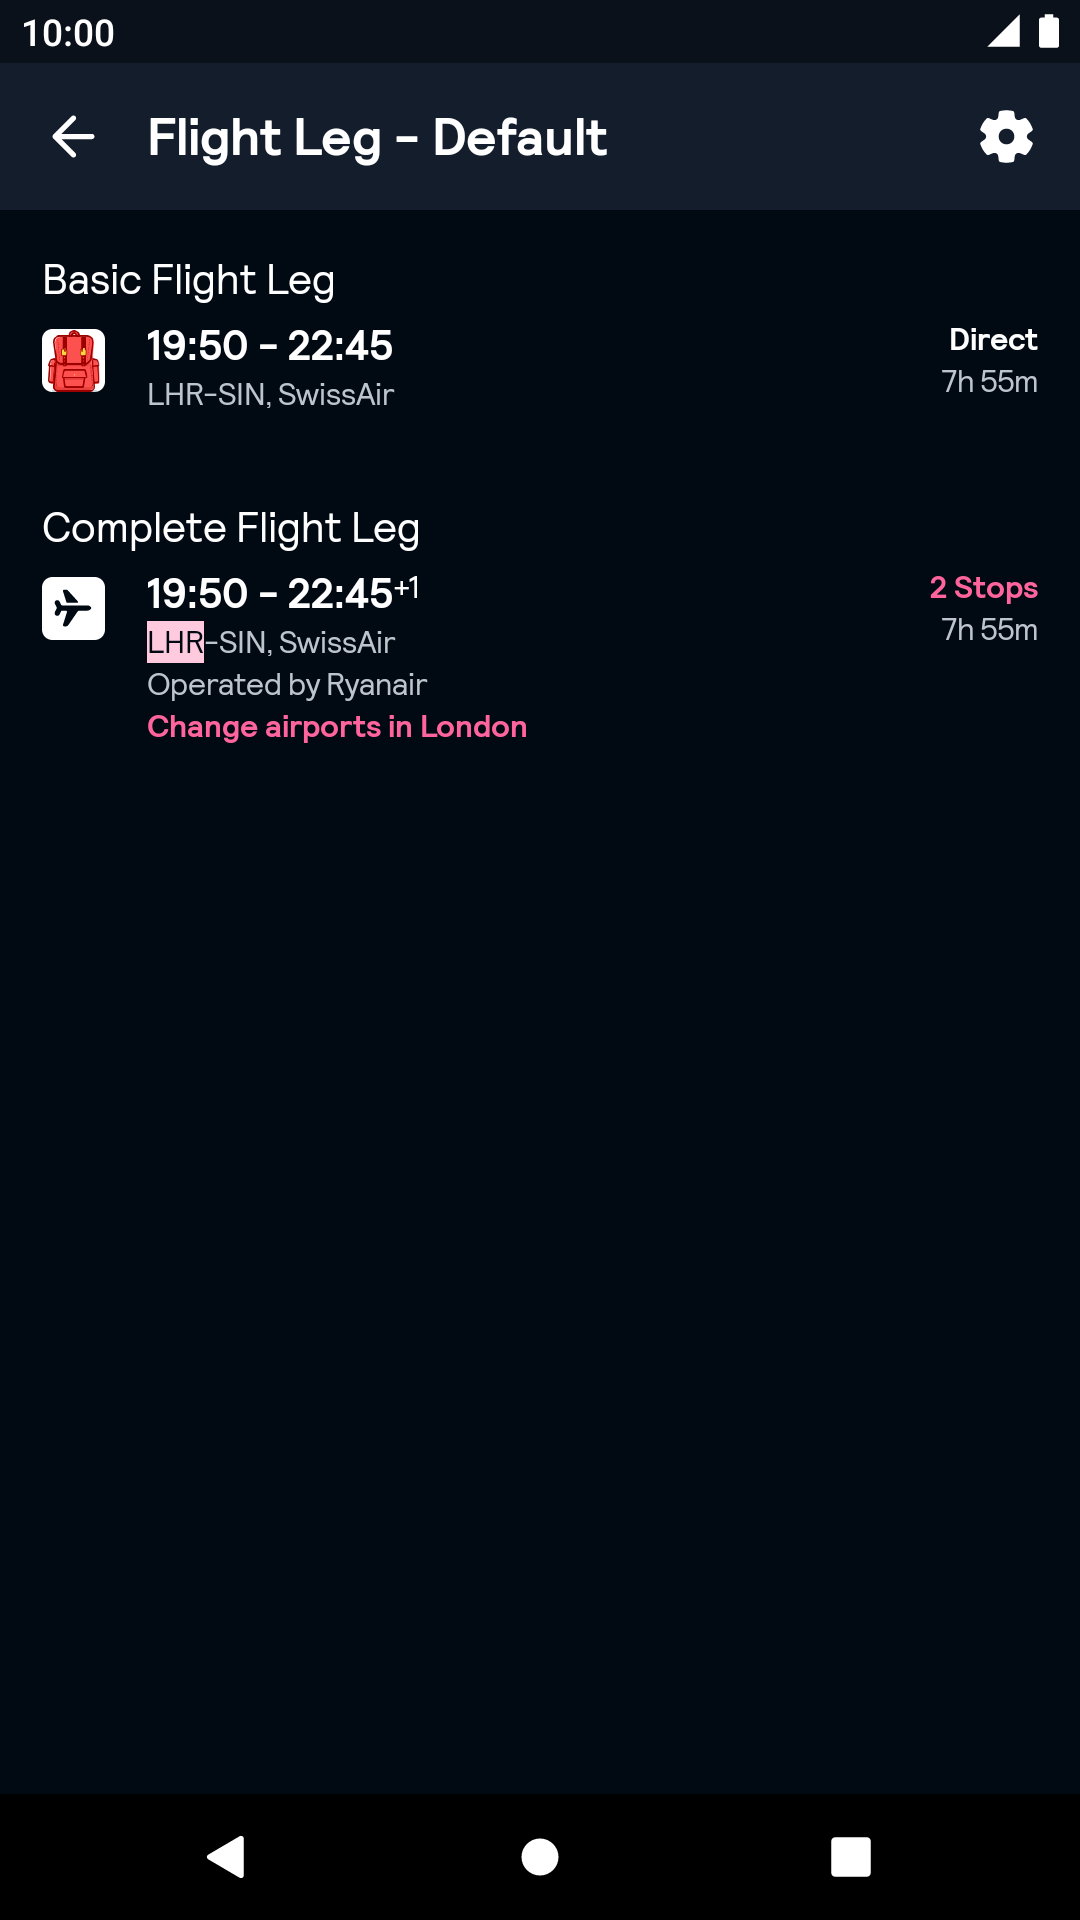
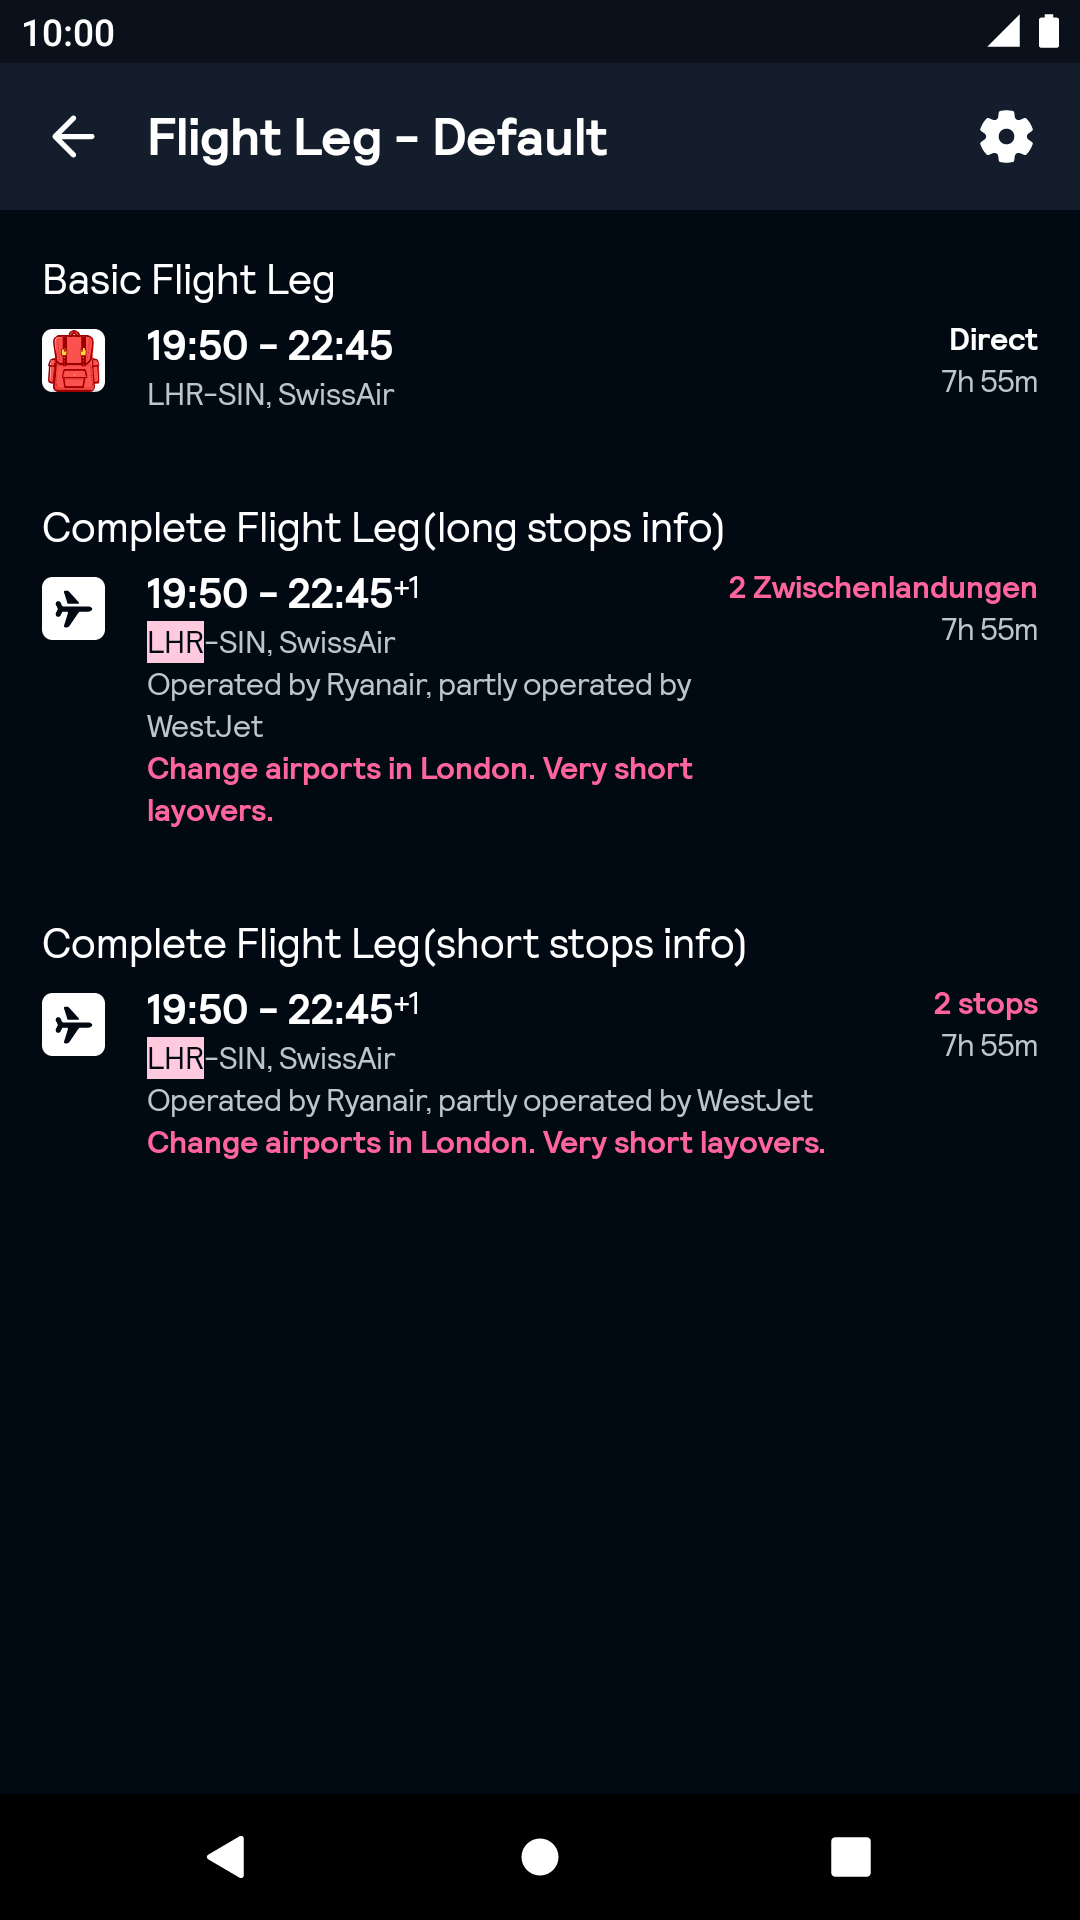
SONIC-1554 fix box alignment + fix long description and long stops info layout issue

diff --git a/app/src/main/java/net/skyscanner/backpack/demo/compose/FlightLegStory.kt b/app/src/main/java/net/skyscanner/backpack/demo/compose/FlightLegStory.kt
@@ -53,11 +53,18 @@ fun FlightLegStory(modifier: Modifier = Modifier) {
             .padding(BpkSpacing.Base),
         verticalArrangement = Arrangement.spacedBy(BpkSpacing.Sm),
     ) {
-        BpkText(text = stringResource(id = R.string.flight_leg_basic_example))
+        BpkText(text = stringResource(id = R.string.flight_leg_basic_example), color = BpkTheme.colors.textPrimary)
         BasicFlightLegSample()
+
         Spacer(modifier = Modifier.height(BpkSpacing.Lg))
-        BpkText(text = stringResource(id = R.string.flight_leg_complete_example))
-        CompleteFlightLegSample()
+
+        BpkText(text = stringResource(id = R.string.flight_leg_complete_long_stops_example), color = BpkTheme.colors.textPrimary)
+        CompleteFlightLegLongStopsSample()
+
+        Spacer(modifier = Modifier.height(BpkSpacing.Lg))
+
+        BpkText(text = stringResource(id = R.string.flight_leg_complete_short_stops_example), color = BpkTheme.colors.textPrimary)
+        CompleteFlightLegShortStopsSample()
     }
 }
 
@@ -80,7 +87,7 @@ internal fun BasicFlightLegSample(modifier: Modifier = Modifier) {
 }
 
 @Composable
-internal fun CompleteFlightLegSample(modifier: Modifier = Modifier) {
+internal fun CompleteFlightLegLongStopsSample(modifier: Modifier = Modifier) {
     BpkFlightLeg(
         modifier = modifier,
         departureArrivalTime = "19:50 - 22:45",
@@ -92,12 +99,42 @@ internal fun CompleteFlightLegSample(modifier: Modifier = Modifier) {
             }
             append("-SIN, SwissAir")
         },
-        stopsInfo = "2 Stops",
+        stopsInfo = "2 Zwischenlandungen",
         highlightStopsInfo = true,
         duration = "7h 55m",
         nextDayArrival = "+1",
-        operatedBy = "Operated by Ryanair",
-        warning = "Change airports in London",
+        operatedBy = "Operated by Ryanair, partly operated by WestJet",
+        warning = "Change airports in London. Very short layovers.",
+        contentDescription = null,
+        carrierLogoContent = {
+            BpkIcon(
+                icon = BpkIcon.Aircraft,
+                tint = BpkTheme.colors.textOnLight,
+                contentDescription = null,
+            )
+        },
+    )
+}
+
+@Composable
+internal fun CompleteFlightLegShortStopsSample(modifier: Modifier = Modifier) {
+    BpkFlightLeg(
+        modifier = modifier,
+        departureArrivalTime = "19:50 - 22:45",
+        description = buildAnnotatedString {
+            withStyle(
+                bpkAirportHighlightStyle(),
+            ) {
+                append("LHR")
+            }
+            append("-SIN, SwissAir")
+        },
+        stopsInfo = "2 stops",
+        highlightStopsInfo = true,
+        duration = "7h 55m",
+        nextDayArrival = "+1",
+        operatedBy = "Operated by Ryanair, partly operated by WestJet",
+        warning = "Change airports in London. Very short layovers.",
         contentDescription = null,
         carrierLogoContent = {
             BpkIcon(

diff --git a/backpack-compose/src/main/kotlin/net/skyscanner/backpack/compose/flightleg/BpkFlightLeg.kt b/backpack-compose/src/main/kotlin/net/skyscanner/backpack/compose/flightleg/BpkFlightLeg.kt
@@ -77,16 +77,19 @@ fun BpkFlightLeg(
     ) {
         Row(modifier = Modifier.fillMaxWidth()) {
             carrierLogoContent?.let {
-                Box(
-                    modifier = Modifier
-                        .size(BpkSpacing.Lg)
-                        .padding(top = BpkSpacing.Sm)
-                        .background(color = BpkTheme.colors.textOnDark, shape = RoundedCornerShape(BpkBorderRadius.Xs)),
-                    content = it,
-                )
+                Box(modifier = Modifier.padding(top = BpkSpacing.Sm)) {
+                    Box(
+                        modifier = Modifier
+                            .size(BpkSpacing.Lg)
+                            .background(color = BpkTheme.colors.textOnDark, shape = RoundedCornerShape(BpkBorderRadius.Xs)),
+                        content = it,
+                        contentAlignment = Alignment.Center,
+                    )
+                }
                 Spacer(modifier = Modifier.width(BpkSpacing.Base))
             }
             Column(
+                modifier = Modifier.weight(0.67f),
                 horizontalAlignment = Alignment.Start,
             ) {
                 Row {
@@ -124,7 +127,6 @@ fun BpkFlightLeg(
                     )
                 }
             }
-            Spacer(modifier = Modifier.weight(1f))
             Column(
                 horizontalAlignment = Alignment.End,
             ) {

diff --git a/app/src/androidTest/java/net/skyscanner/backpack/compose/flightleg/BpkFlightLegTest.kt b/app/src/androidTest/java/net/skyscanner/backpack/compose/flightleg/BpkFlightLegTest.kt
@@ -20,7 +20,8 @@ package net.skyscanner.backpack.compose.flightleg
 
 import net.skyscanner.backpack.compose.BpkSnapshotTest
 import net.skyscanner.backpack.demo.compose.BasicFlightLegSample
-import net.skyscanner.backpack.demo.compose.CompleteFlightLegSample
+import net.skyscanner.backpack.demo.compose.CompleteFlightLegLongStopsSample
+import net.skyscanner.backpack.demo.compose.CompleteFlightLegShortStopsSample
 import org.junit.Test
 
 class BpkFlightLegTest : BpkSnapshotTest() {
@@ -31,7 +32,12 @@ class BpkFlightLegTest : BpkSnapshotTest() {
     }
 
     @Test
-    fun completeLegTest() = snap {
-        CompleteFlightLegSample()
+    fun completeLegLongStopsTest() = snap {
+        CompleteFlightLegLongStopsSample()
+    }
+
+    @Test
+    fun completeLegShortStopsTest() = snap {
+        CompleteFlightLegShortStopsSample()
     }
 }
